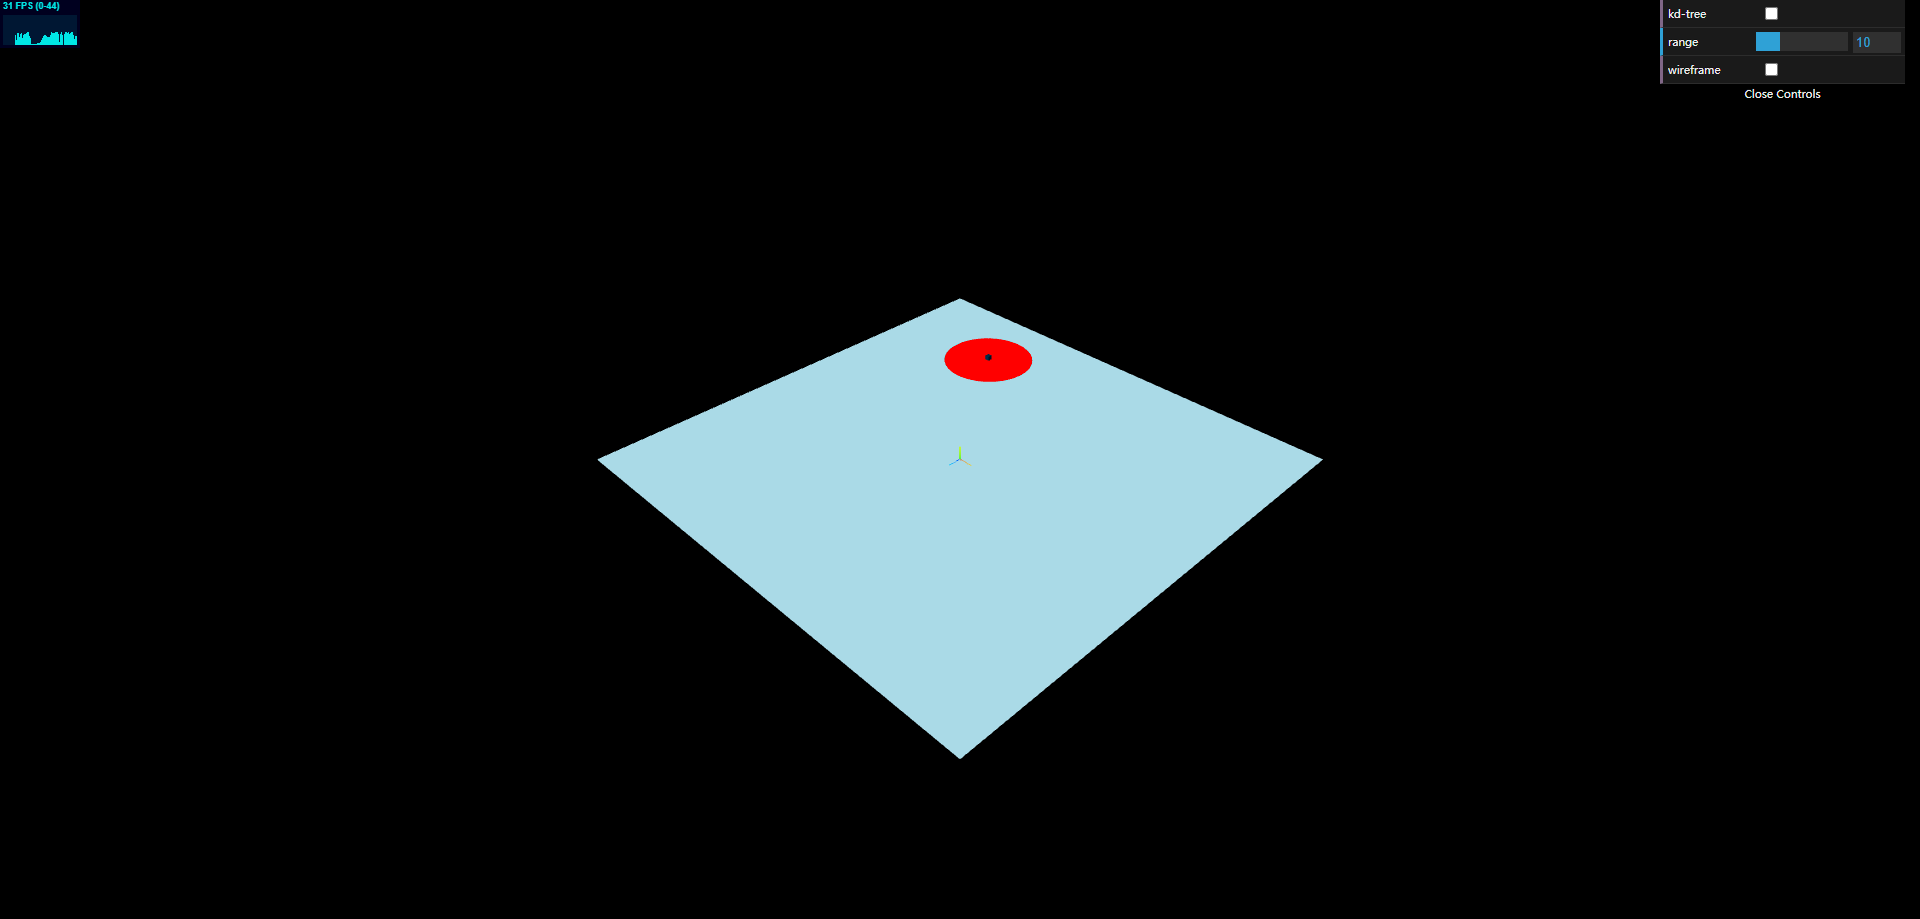
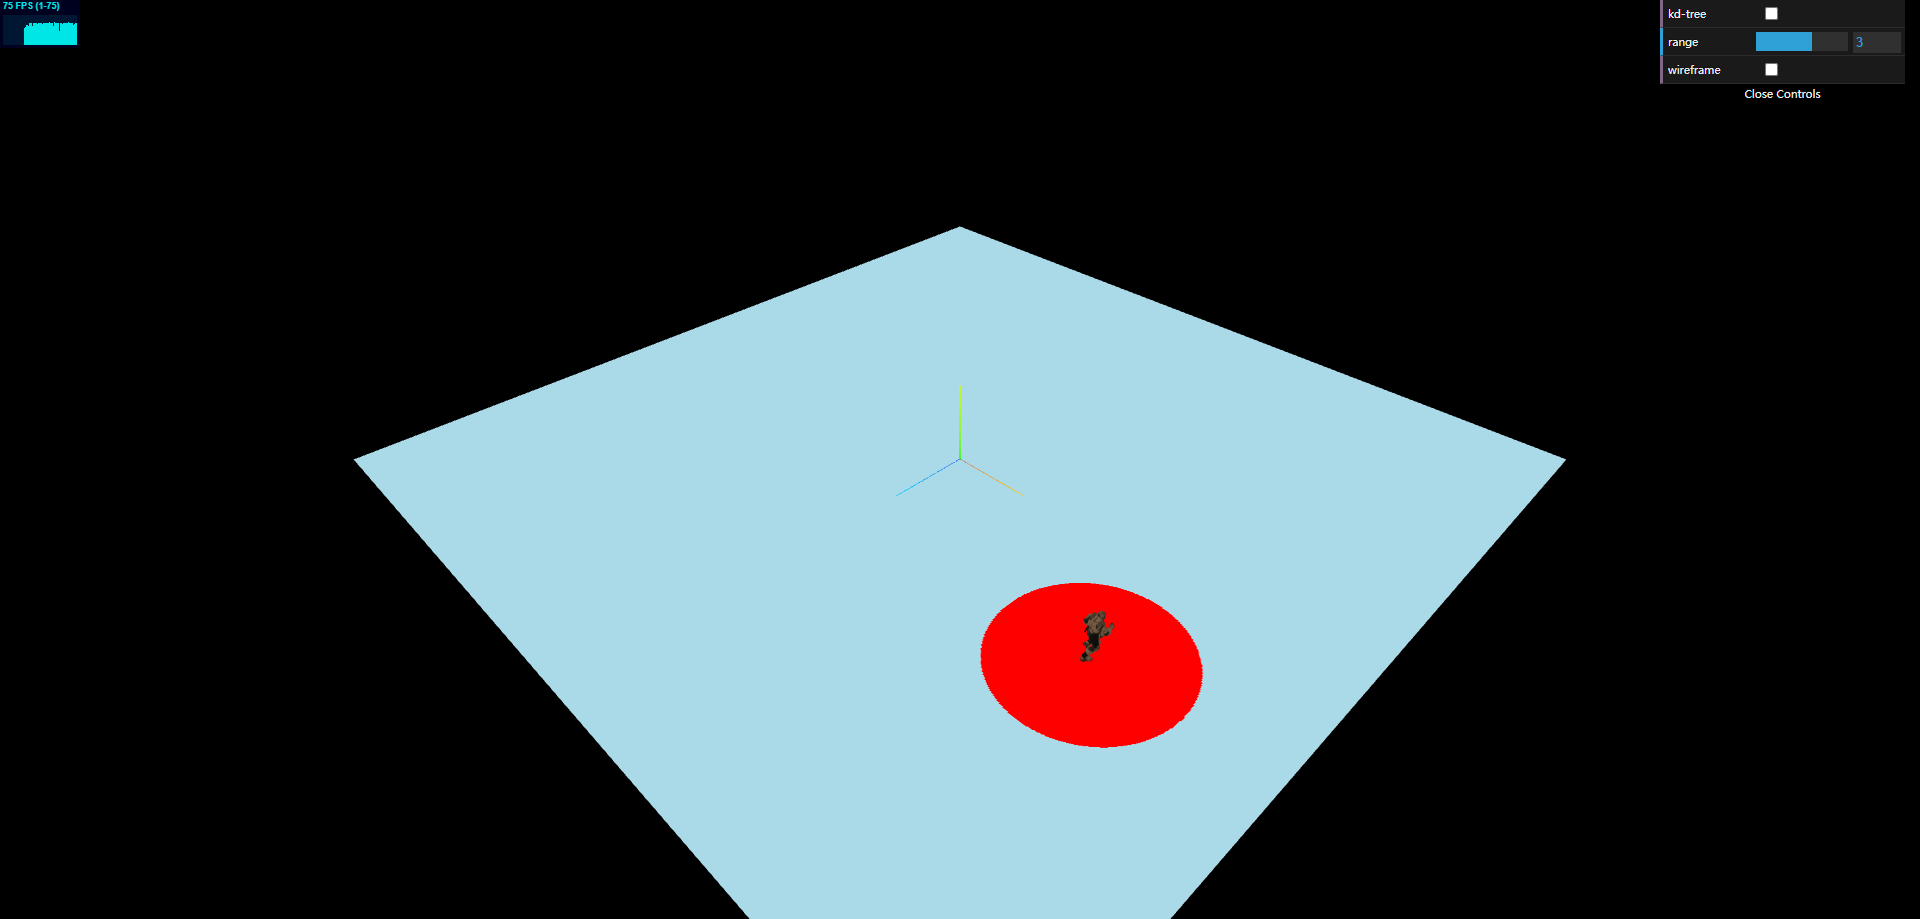
feat: add robot in space_search

Changed region(s): [[0.1875, 0.2437, 0.8125, 1.0], [0.9062, 0.0305, 0.9688, 0.0609], [0.0, 0.0, 0.0312, 0.0609]]

diff --git a/src/demos/generic@space_search.html b/src/demos/generic@space_search.html
@@ -14,6 +14,7 @@
     import * as THREE from "three";
     import * as dat from "dat.gui";
     import { OrbitControls } from "three/examples/jsm/controls/OrbitControls";
+    import { GLTFLoader } from "three/examples/jsm/loaders/GLTFLoader";
     import Stats from "three/examples/jsm/libs/stats.module";
     import { KdTree } from '@sadyx019/kd-tree';
 
@@ -22,7 +23,7 @@
 
     // three
     let container, stats, scene, renderer, camera, orbitControl, directionalLight, ambientLight;
-    let planeMesh, modelMesh, tree;
+    let planeMesh, modelMesh, tree, mixer;
     let pointIndexCache = new Set();
 
     const distanceFn = (a, b) => {
@@ -36,13 +37,13 @@
     // gui
     const params = {
       'kd-tree': false,
-      range: 10,
+      range: 3,
       wireframe: false,
     };
 
     const gui = new dat.GUI();
     gui.add(params, 'kd-tree');
-    gui.add(params, 'range', 3, 30);
+    gui.add(params, 'range', 0, 5, 0.1);
     gui.add(params, 'wireframe').onChange(() => {
       if (planeMesh) {
         planeMesh.material.wireframe = params.wireframe;
@@ -76,7 +77,7 @@
         0.01,
         10000
       );
-      camera.position.set(100, 100, 100);
+      camera.position.set(30, 30, 30);
 
       // control
       orbitControl = new OrbitControls(camera, renderer.domElement);
@@ -87,7 +88,7 @@
       directionalLight.position.set(-7, 8, 9);
       scene.add(directionalLight);
 
-      ambientLight = new THREE.AmbientLight(0x404040);
+      ambientLight = new THREE.AmbientLight(0xffffff);
       scene.add(ambientLight);
 
       // helper
@@ -96,27 +97,39 @@
     };
 
     //
-    const startTime = performance.now();
     const render = () => {
       orbitControl.update();
       renderer.render(scene, camera);
     };
 
+    const startTime = performance.now();
+    let lastTime = startTime;
+    const speed = 4;
     const animate = () => {
       requestAnimationFrame(animate);
 
       const time = (performance.now() - startTime) / 1000;
+      const delta = time - lastTime;
+      lastTime = time;
 
       // set color
       if (planeMesh && modelMesh && tree) {
         const colors = planeMesh.geometry.attributes.color.array;
         const newPosition = [
-          40 * Math.sin(time / 3),
-          0.5,
-          40 * Math.cos(time / 3),
+          10 * Math.sin(time / speed),
+          0,
+          10 * Math.cos(time / speed),
         ];
 
         modelMesh.position.set(...newPosition);
+        modelMesh.setRotationFromMatrix(
+          new THREE.Matrix4(
+            Math.cos(Math.PI / 2 - time / speed), 0, -Math.sin(Math.PI / 2 - time / speed), 0,
+            0, 1, 0, 0,
+            Math.sin(Math.PI / 2 - time / speed), 0, Math.cos(Math.PI / 2 - time / speed), 0,
+            0, 0, 0, 1
+          )
+        );
 
         // use kd tree
         if (params['kd-tree']) {
@@ -184,6 +197,11 @@
         planeMesh.geometry.attributes.color.needsUpdate = true;
       }
 
+      // bot animation
+      if (mixer) {
+        mixer.update(delta);
+      }
+
       render();
       stats.update();
     };
@@ -202,7 +220,7 @@
 
     // 
     const addPlane = () => {
-      const geometry = new THREE.PlaneGeometry(100, 100, 2000, 2000);
+      const geometry = new THREE.PlaneGeometry(30, 30, 1000, 1000);
       geometry.rotateX(-Math.PI / 2);
 
       const position = geometry.attributes.position;
@@ -252,9 +270,30 @@
       const geometry = new THREE.BoxGeometry(1, 1, 1);
       const material = new THREE.MeshStandardMaterial({ color: 0x049ef4 });
 
-      modelMesh = new THREE.Mesh(geometry, material);
-      modelMesh.position.set(0, 0.5, 0);
-      scene.add(modelMesh);
+
+      const loader = new GLTFLoader();
+      loader.load(
+        '../assets/models/Soldier.glb',
+        (gltf) => {
+          console.log(gltf);
+          modelMesh = gltf.scene;
+          scene.add(modelMesh);
+
+          modelMesh.position.set(0, 0, 0);
+
+          const animations = gltf.animations;
+
+          mixer = new THREE.AnimationMixer(modelMesh);
+
+          const actions = [
+            mixer.clipAction(animations[1]), // run
+          ];
+
+          actions.forEach((action) => {
+            action.play();
+          });
+        }
+      )
     }
 
     // invoke
